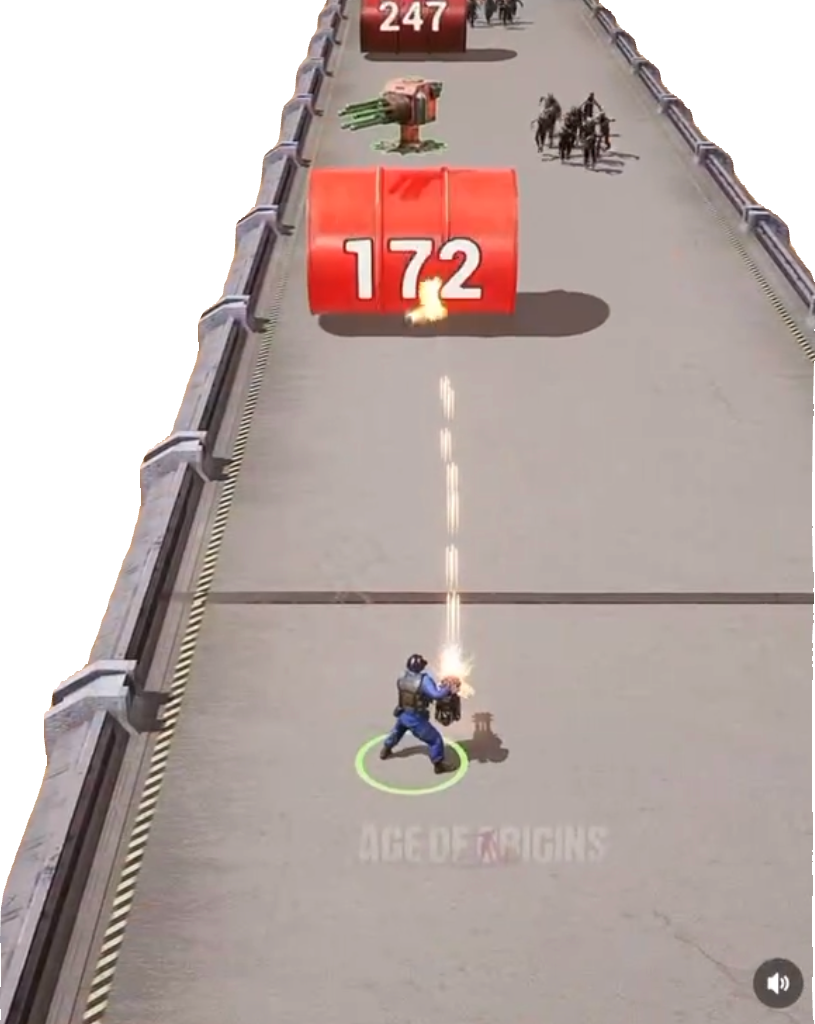
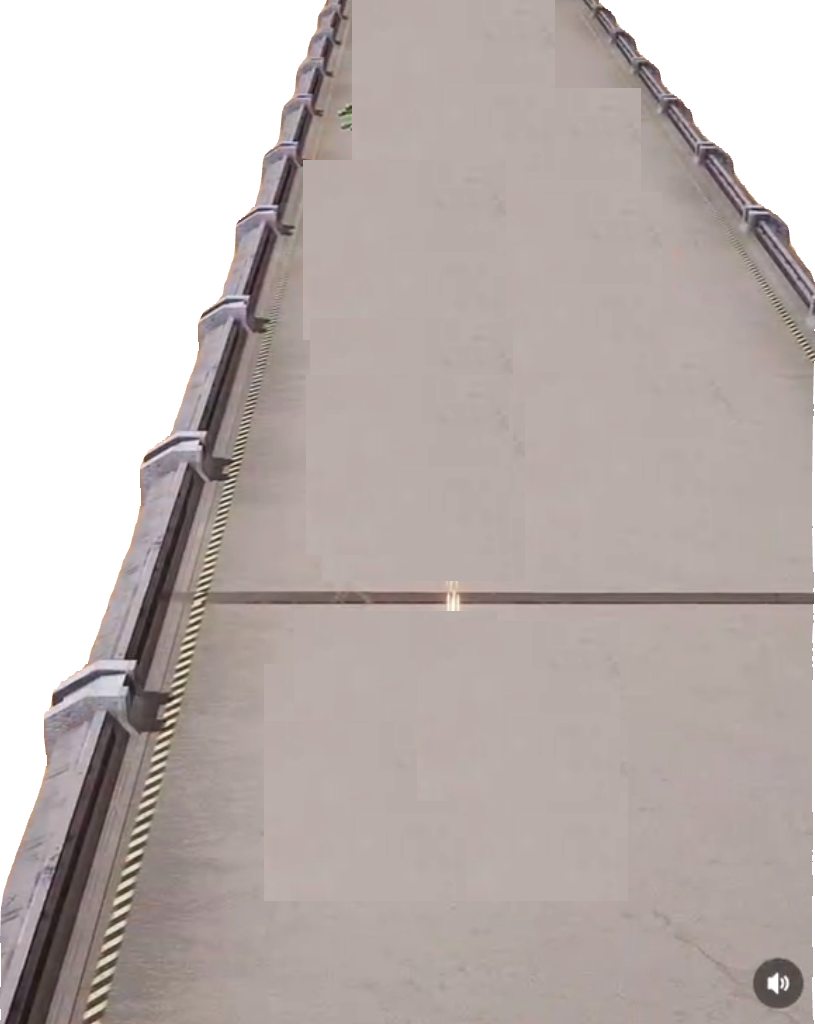
Upload a very playable version

diff --git a/MetaGPT/workspace/zombie_shooter/zombie_shooter/player.py b/MetaGPT/workspace/zombie_shooter/zombie_shooter/player.py
@@ -1,26 +1,29 @@
 import pygame
 from missile import Missile
 
+
 class Player:
     def __init__(self, x: int, y: int, speed: int):
         self.x = x
         self.y = y
         self.speed = speed
-        self.image = pygame.image.load('player.png')
+        self.image = pygame.image.load("player.png")
         self.rect = self.image.get_rect(center=(self.x, self.y))
-        self.missile_speed = 20
+        self.missile_speed = 10
         self.missile_timer = pygame.time.get_ticks()
 
     def move(self, direction: str):
-        if direction == 'left':
+        if direction == "left":
             self.x -= self.speed
-        elif direction == 'right':
+        elif direction == "right":
             self.x += self.speed
         self.rect.center = (self.x, self.y)
 
     def shoot(self):
         current_time = pygame.time.get_ticks()
-        if current_time - self.missile_timer > 50:  # 20 missiles per second
+        if (
+            current_time - self.missile_timer > 1000 / self.missile_speed
+        ):  # 20 missiles per second
             self.missile_timer = current_time
             return Missile(self.x, self.y, self.missile_speed)
         return None
@@ -29,4 +32,4 @@ class Player:
         screen.blit(self.image, self.rect)
 
     def increase_missile_speed(self):
-        self.missile_speed *= 2
+        self.missile_speed *= 1.1

diff --git a/MetaGPT/workspace/zombie_shooter/zombie_shooter/game.py b/MetaGPT/workspace/zombie_shooter/zombie_shooter/game.py
@@ -15,6 +15,7 @@ class Game:
         self.missiles = []
         self.font = pygame.font.Font(None, 24)
         self.game_over = False
+        self.bg = pygame.image.load("background.png")
 
     def add_zombie(self, zombie: Zombie):
         self.zombies.append(zombie)
@@ -30,8 +31,12 @@ class Game:
             zombie.move()
         for missile in self.missiles:
             missile.move()
+        for obstacle in self.obstacles:
+            obstacle.move()
 
     def draw(self, screen):
+        # INSIDE OF THE GAME LOOP
+        screen.blit(self.bg, (0, 0))
         for zombie in self.zombies:
             zombie.draw(screen)
         for obstacle in self.obstacles:
@@ -65,8 +70,8 @@ class Game:
 
     def spawn_zombies_and_obstacles(self):
         if random.randint(0, 100) < 5:  # 10% chance to spawn a zombie
-            self.add_zombie(Zombie(random.randint(0, 800), 0, 2))
-        if random.randint(0, 100) < 1:  # 5% chance to spawn an obstacle
+            self.add_zombie(Zombie(random.randint(400, 600), 0, 2))
+        if random.randint(0, 1000) < 3:  # 5% chance to spawn an obstacle
             self.add_obstacle(
-                Obstacle(random.randint(0, 800), 0, random.randint(10, 20))
+                Obstacle(random.randint(400, 500), 0, random.randint(10, 20), 2)
             )

diff --git a/MetaGPT/workspace/zombie_shooter/zombie_shooter/obstacle.py b/MetaGPT/workspace/zombie_shooter/zombie_shooter/obstacle.py
@@ -1,18 +1,24 @@
 import pygame
 
+
 class Obstacle:
-    def __init__(self, x: int, y: int, life_points: int):
+    def __init__(self, x: int, y: int, life_points: int, speed: int):
         self.x = x
         self.y = y
         self.life_points = life_points
-        self.image = pygame.image.load('obstacle.png')
+        self.image = pygame.image.load("obstacle.png")
         self.rect = self.image.get_rect(center=(self.x, self.y))
+        self.speed = speed
 
     def draw(self, screen):
         screen.blit(self.image, self.rect)
-        font = pygame.font.Font(None, 24)
+        font = pygame.font.Font(None, 100)
         text = font.render(str(self.life_points), True, (255, 255, 255))
         screen.blit(text, (self.x, self.y))
+
+    def move(self):
+        self.y += self.speed
+        self.rect.center = (self.x, self.y)
 
     def decrease_life(self):
         self.life_points -= 1

diff --git a/MetaGPT/prompts/age_of_origin.md b/MetaGPT/prompts/age_of_origin.md
@@ -1,1 +1,1 @@
-We want to build a runnable game in python. Designers already provided us some game assets, including ["player.png", "obstable.png", "zombie.png", "missile.png", "gun.png", "road.png"]. This is a game that the bacground is a road with zombies, coming from the road, the player will control a character holding a gun that automatically launch missiles every seconds to hit the zombie. The zombie will die after getting hit by the missile once. The player will move up on the road automatically with a steady speed, it's a 2D side-scrolling shooter style, player can only control go left and right using the keyboard. If player getting touched by the zombie, the player will die. The player's score is calculated by how many zombies it kills. On the road other than zombies, there are obstables, every obstables has a life point shown on it in the range of [10, 20], if a obstables getting killed by the player, the player's speed of shooting the missile will upgrade to 2X. The game is set in a desert environment at night. The game has a frantic and fast-paced atmosphere and is presented in a 2D side-scrolling shooter style. The player is positioned in the bottom of the screen. The player cannot move off the screen, and zombie cannot move, zombies and obstables appear randomly as the game progress on the top of the screen as player moves, the missile shot in straight line.
+We want to build a runnable game in python. This is a game that the bacground is a road with zombies, coming from the road, the player will control a character holding a gun that automatically launch 20 missiles every seconds to hit the zombie (that means one missile every 0.05 seconds). The zombie will die after getting hit by the missile once. The player will move up on the road automatically with a steady speed, it's a 2D side-scrolling shooter style, player can only control go left and right using the keyboard. If player getting touched by the zombie, the player will die, game will pause and shows game over on the screen. The player's score is calculated by how many zombies it kills. On the road other than zombies, there are obstables, every obstables has a life point displayed on it in the range of [10, 20], if a obstables getting killed by the player, the player's speed of shooting the missile will upgrade to 2X. The game is set in a desert environment at night. The game has a frantic and fast-paced atmosphere and is presented in a 2D side-scrolling shooter style. The player is positioned in the bottom of the screen. The player cannot move off the screen, and zombie cannot move, zombies and obstables appear randomly as the game progress on the top of the screen as player moves, the missile shot in straight line. Designers already provided us some game assets, including ["player.png", "obstable.png", "zombie.png", "missile.png", "gun.png", "background.png"].
